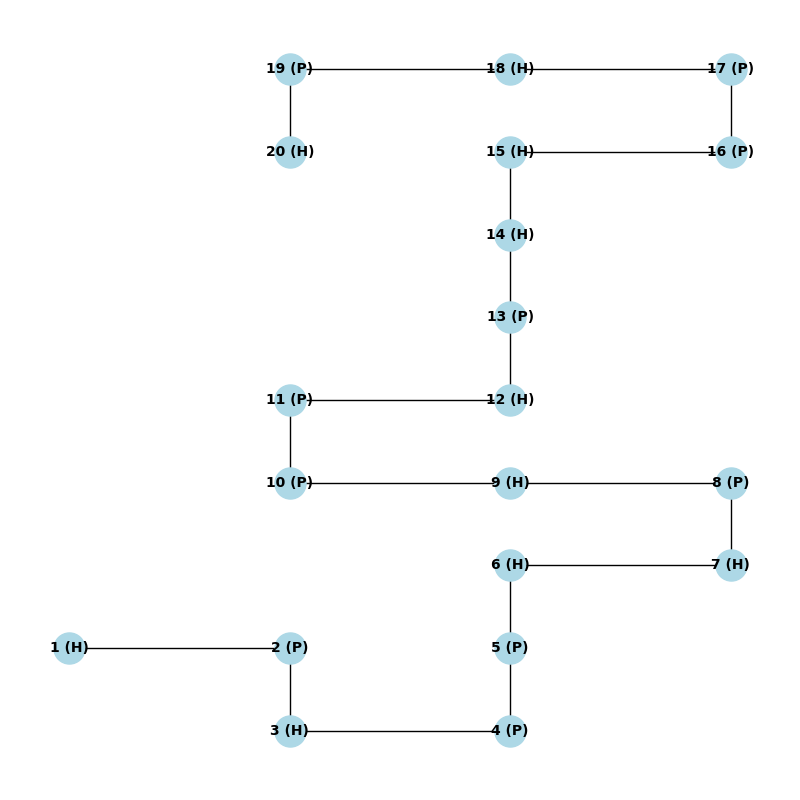
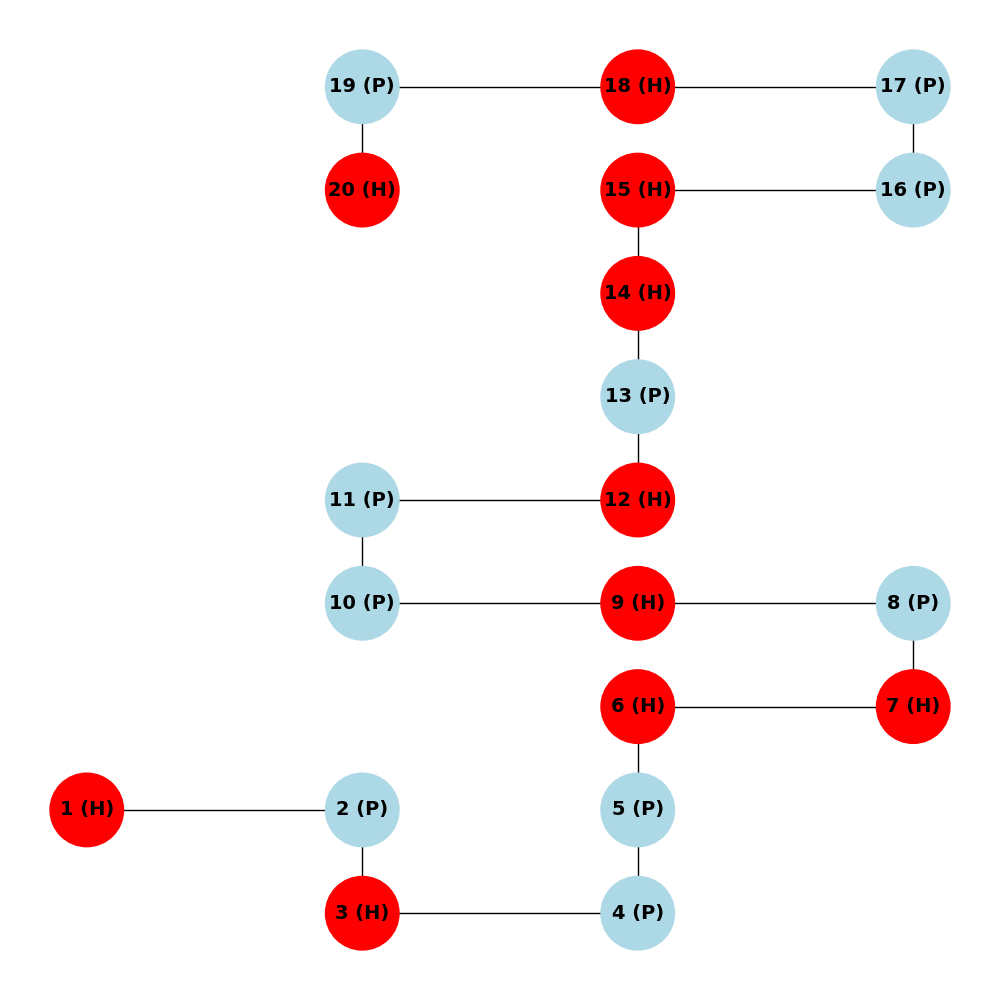
Update networkx representation.

Changed region(s): [[0.3125, 0.0312, 0.9688, 0.9688], [0.0312, 0.75, 0.125, 0.8438]]

diff --git a/src/protein.py b/src/protein.py
@@ -179,7 +179,9 @@ AA_Sequence : {self.aa_sequence}\nHP_Sequence : "
         # Add each residue as a node to the graph with its 2D coordinates.
         for residue in self.hp_sequence:
             graph.add_node(
-                residue.number, pos=(residue.j_coord, -residue.i_coord)
+                residue.number,
+                pos=(residue.j_coord, -residue.i_coord),
+                type=residue.type,
             )
 
         # Add edges between connected residues.
@@ -192,6 +194,12 @@ AA_Sequence : {self.aa_sequence}\nHP_Sequence : "
         # Get the positions of the nodes.
         pos = nx.get_node_attributes(graph, "pos")
 
+        # Create node color mapping based on residue type.
+        color_map = {
+            residue.number: "red" if residue.type == "H" else "lightblue"
+            for residue in self.hp_sequence
+        }
+
         # Create labels for the nodes with the residue number and type.
         labels = {
             residue.number: f"{residue.number} ({residue.type})"
@@ -199,16 +207,16 @@ AA_Sequence : {self.aa_sequence}\nHP_Sequence : "
         }
 
         # Plot the graph.
-        plt.figure(figsize=(8, 8))
+        plt.figure(figsize=(10, 10))
         nx.draw(
             graph,
             pos,
             with_labels=True,
             labels=labels,
-            node_color="lightblue",
-            node_size=500,
+            node_color=[color_map[node] for node in graph.nodes],
+            node_size=2800,
             font_weight="bold",
-            font_size=10,
+            font_size=14,
         )
         plt.title("2D Representation of the Protein Sequence")
         # Save the figure to the specified file.
